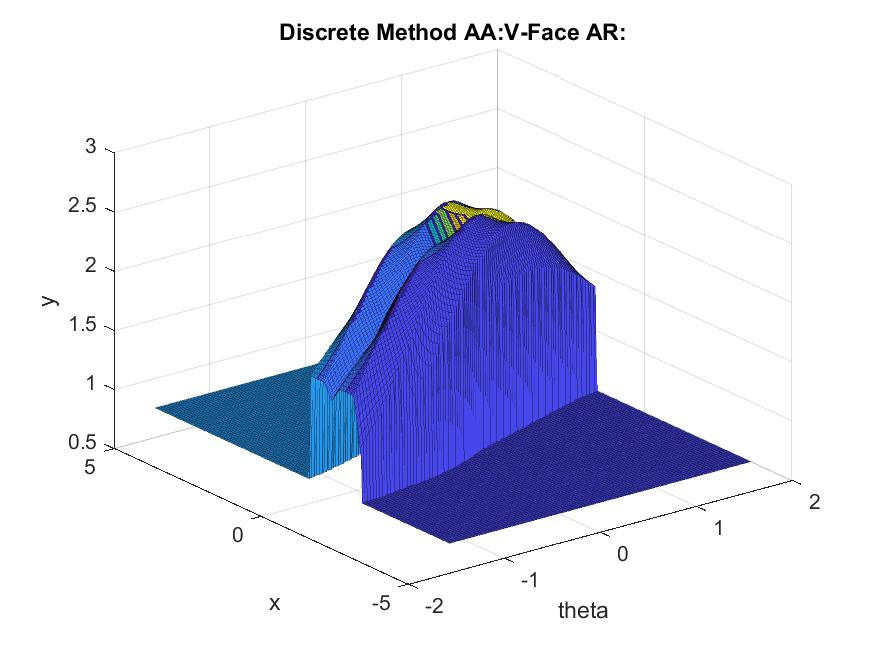
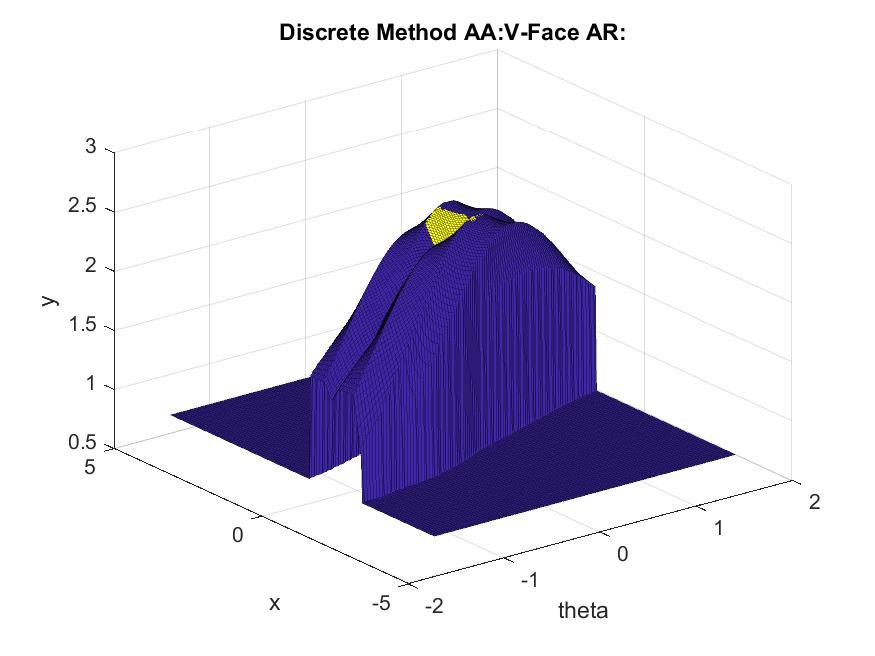
merge_watersheds new method

Changed region(s): [[0.1851, 0.3049, 0.864, 0.8232]]

diff --git a/source/merge_watersheds_by_depth.m b/source/merge_watersheds_by_depth.m
@@ -7,7 +7,7 @@ function new_ws = merge_watersheds_by_depth(points,wsAssignment, tol)
 % watershed, 2 for dam)
 % tol - depth tolerance to be considered 'too shallow'
 %
-
+mergeMetrics = populate2DMergeMetrics(points,wsAssignment);
 %Check watershed depths and merge if possible
 checkDepths=1;
 while checkDepths
@@ -19,15 +19,36 @@ while checkDepths
         new_ws=wsAssignment;
         return
     end
-    for w=wsIds'
-        [neighbor, depth]=find_ws_depth(points,wsAssignment,w);
-        if isempty(neighbor) || neighbor==1
-            %No neighbor
-            %disp('empty neighbor')
-            %wsAssignment=mergeWatersheds(wsAssignment,[w 1]);
-            %checkDepths=1;
-        elseif depth<=tol
+    for i=1:size(mergeMetrics,1)
+        w=mergeMetrics(i,1);
+        neighbor=mergeMetrics(i,2);
+        depth=mergeMetrics(i,3);
+        if neighbor==1
+            %No neighbor, merge with background
+            disp('empty neighbor')
+            wsAssignment=mergeWatersheds(wsAssignment,[w 1]);
+            mergeMetrics(i,:)=[];
+            %Check for upstreams and correct neighbor assignments
+            if sum(mergeMetrics(:,2)==w)>0
+                upstreams=find(mergeMetrics(:,2)==w);
+                for u=1:numel(upstreams)
+                    mergeMetrics(upstreams(u),2)=1;
+                end
+            end 
+            checkDepths=1;
+            break
+        elseif w==neighbor && size(mergeMetrics,1)==1
+            checkDepths=0;
+        elseif depth<=tol && w~=neighbor
             wsAssignment=mergeWatersheds(wsAssignment,[w neighbor]);
+            mergeMetrics(i,:)=[];
+            %Check for upstreams and correct neighbor assignments
+            if sum(mergeMetrics(:,2)==w)>0
+                upstreams=find(mergeMetrics(:,2)==w);
+                for u=1:numel(upstreams)
+                    mergeMetrics(upstreams(u),2)=neighbor;
+                end
+            end            
             checkDepths=1;
             break
         end

diff --git a/source/findWsVFaceDepth.m b/source/findWsVFaceDepth.m
@@ -1,4 +1,4 @@
-function [sumAA,onAA,onAACells,mergeMetrics]=findWsVFaceDepth(resolution,DesignParams, depthToleranceFactor)
+function [sumAA,onAA,onAACells,mergeMetrics]=findWsVFaceDepth(resolution,DesignParams, depthTolerance)
 FALLOFF_MINIMUM=0;
 BORDER_SIZE=100;
 FILE_CHARS=24;
@@ -14,7 +14,7 @@ ObstaclePolyhedra=generate2DObstaclePolyhedra(DesignParams);
 
 heightMap=generateHeightMap(Offsets,ObstaclePolyhedra);
 
-depthTolerance=findDepthTolerance(depthToleranceFactor,heightMap);
+%depthTolerance=findDepthTolerance(depthToleranceFactor,heightMap);
 
 watersheds=watershed(heightMap)+2;
 

diff --git a/scripts/vfaceTesterMultiParams.m b/scripts/vfaceTesterMultiParams.m
@@ -12,6 +12,6 @@ for i=1:numel(aspectRatios)
     for j=1:numel(rotationCenters)
         DesignParams.aspectRatio=aspectRatios(i);
         DesignParams.rotationCenter=rotationCenters(j);
-        [aaResult(i,j),onaaTest(i,j),onaaDigits(i,j),ndMetrics{i,j}]=findWsVFaceDepth(100,DesignParams,0.36);
+        [aaResult(i,j),onaaResult(i,j),onaaDigits(i,j),ndMetrics{i,j}]=findWsVFaceDepth(100,DesignParams,0.36);
     end
 end

diff --git a/source/mergeWatersheds.m b/source/mergeWatersheds.m
@@ -1,5 +1,5 @@
 function mergedWatersheds = mergeWatersheds(wsAssignment,watersheds)
-newWs = min(watersheds);
+newWs = watersheds(end);
 %Find each boundary
 boundShared = findSharedWSBoundary(wsAssignment, watersheds);
 newIndex = (wsAssignment==watersheds(1) | wsAssignment==watersheds(2)) | boundShared;

diff --git a/scripts/vfaceUnitTester.m b/scripts/vfaceUnitTester.m
@@ -1,3 +1,5 @@
+clear all
+close all
 DesignParams.aspectRatio=4;
 DesignParams.rotationCenter=0;
-[aaTest,onaaTest,onaaDigits,ndMetrics]=findWsVFaceDepth(100,DesignParams,0.1);
+[aaTest,onaaTest,onaaDigits,ndMetrics]=findWsVFaceDepth(80,DesignParams,0.36);

diff --git a/scripts/vfaceTester.m b/scripts/vfaceTester.m
@@ -1,3 +1,3 @@
-DesignParams.aspectRatio=4;
-DesignParams.rotationCenter=1;
+DesignParams.aspectRatio=1/4;
+DesignParams.rotationCenter=-1/2;
 [aaTest,onaaTest,onaaDigits,ndMetrics]=findWsVFaceDepth(100,DesignParams,0.36);

diff --git a/scripts/regionSplitter.m b/scripts/regionSplitter.m
@@ -1,0 +1,5 @@
+clear all
+close all
+DesignParams.aspectRatio=4;
+DesignParams.rotationCenter=0;
+[aaTest,onaaTest,onaaDigits,ndMetrics]=findWsVFaceDepth(80,DesignParams,0.36);
